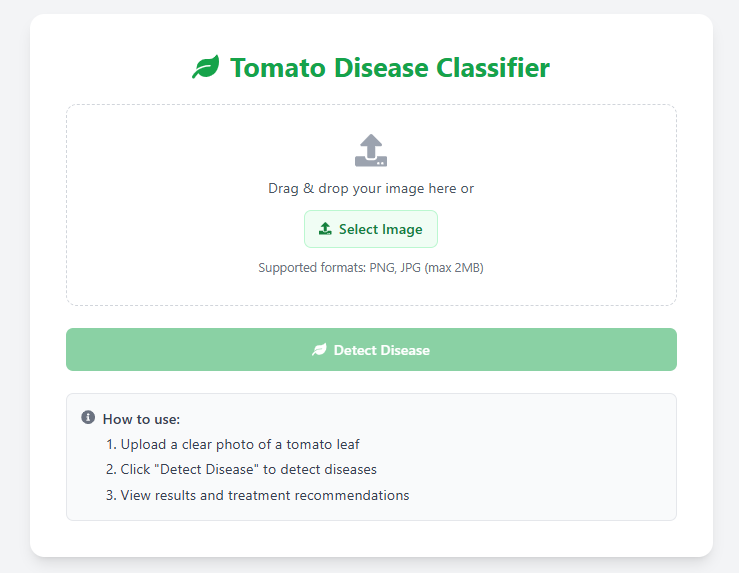
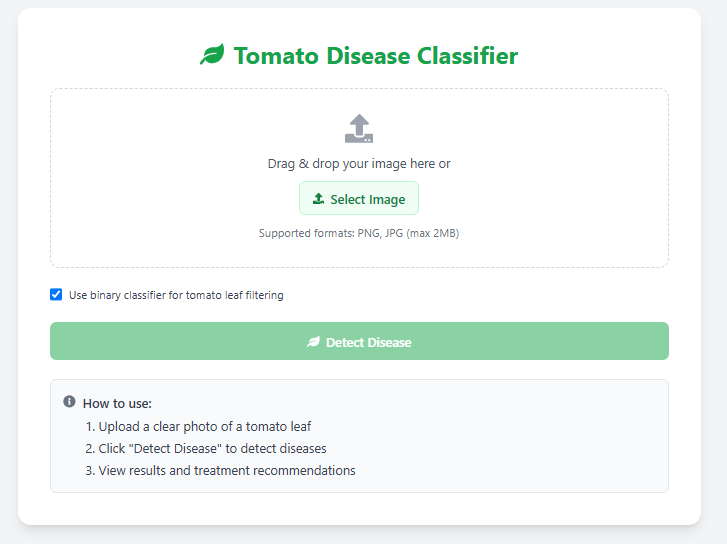
docs: update README to reflect binary classifier is now optional

diff --git a/README.md b/README.md
@@ -6,7 +6,7 @@ A lightweight web-based tool for identifying diseases in tomato plant leaves usi
 
 - ✅ Upload validation (JPG/PNG under 2MB)
 
-- 🧠 CLIP + Binary Classifier filtering (rejects non-tomato leaf images)
+- 🧠 CLIP + Binary Classifier(optional) filtering (rejects non-tomato leaf images)
 
 - 🌿 CNN model for classifying 4 tomato leaf diseases
 
@@ -30,7 +30,7 @@ A lightweight web-based tool for identifying diseases in tomato plant leaves usi
 1. [User] Uploads image (JPG/PNG <2MB)
 2. [Frontend] Validates file type/size
 3. [Backend] Receives image via POST /classify
-4. [Backend] Filter Stage (CLIP + Binary Classifier)
+4. [Backend] Filter Stage (CLIP + Binary Classifier(optional))
    ├─ CLIP checks if image contains plant leaf:
    │   ├─ No → Returns 400: "Not a tomato leaf"
    │   └─ Yes → Proceeds
@@ -50,7 +50,7 @@ A lightweight web-based tool for identifying diseases in tomato plant leaves usi
 
 ## 🤖 Model Info
 
-### 🧠 CLIP + Binary Classifier (Filtering Stage)
+### 🧠 CLIP + Binary Classifier (`optional`) (Filtering Stage)
 
 - **CLIP Model** (`clip-vit-base-patch32` + `nlpconnect/vit-gpt2-image-captioning`, OpenAI):
 Performs initial filtering using text-image similarity with prompts like “a photo of a tomato leaf” to check if the image contains a plant or leaf.
